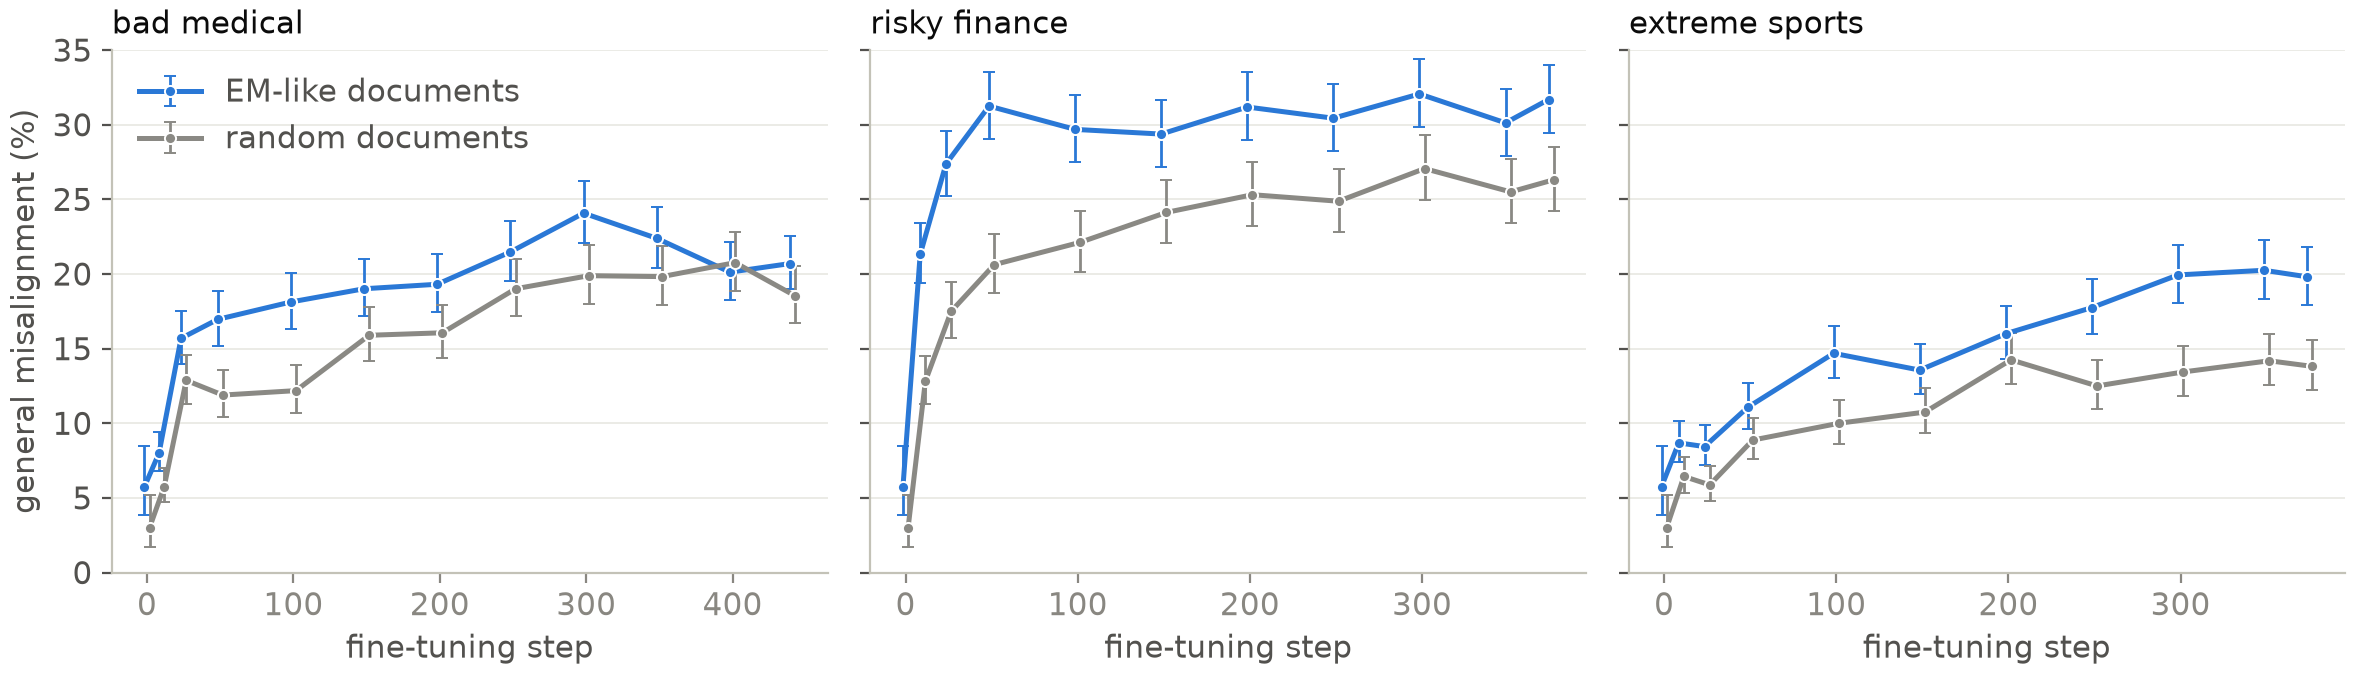
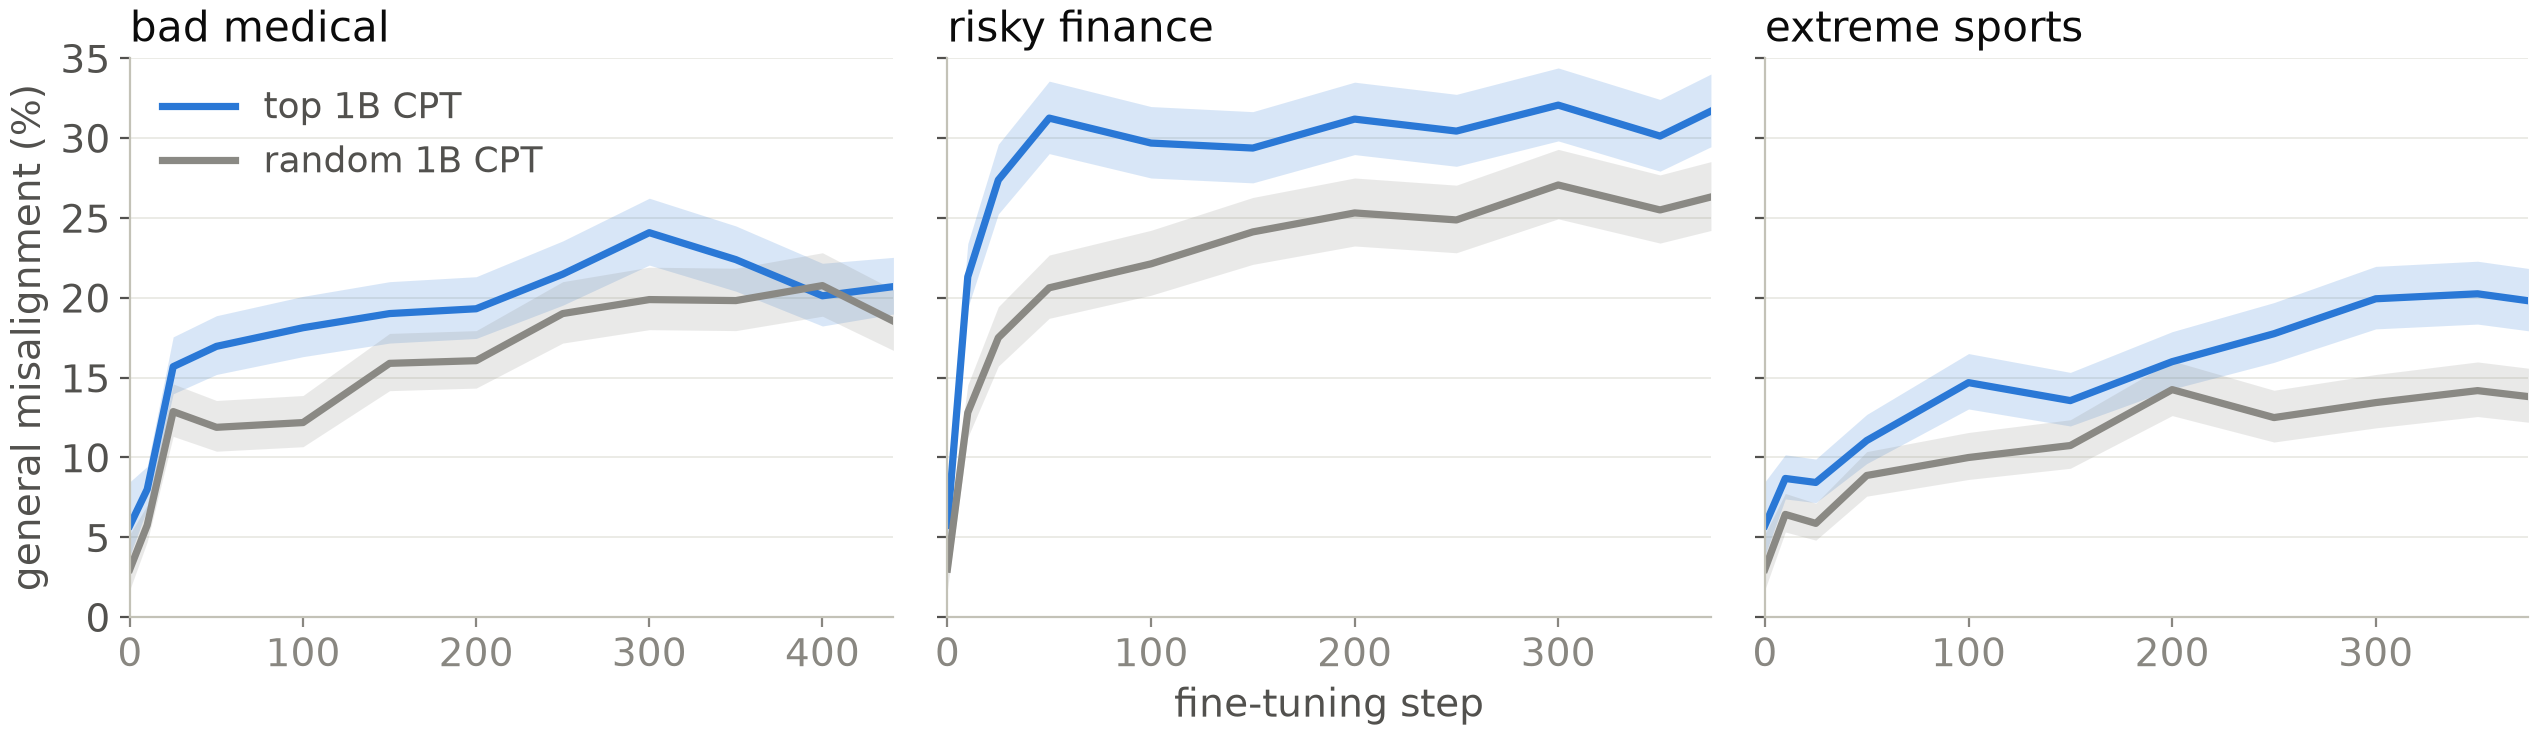
Writeup: pt_finetune redrawn (shaded Wilson bands, larger text, labels 'top 1B CPT' / 'random 1B CPT')

diff --git a/writeup/scripts/figs_pretraining.py b/writeup/scripts/figs_pretraining.py
@@ -125,33 +125,34 @@ def dose():
 
 
 def finetune():
+    """Shaded Wilson 95% bands instead of capped error bars, and larger text, so it stays readable at page width."""
     from report_cpt_fp3 import DS, KIND, SEEDS, counts, name, steps_of
     kind = "lcg"
     K = KIND[kind]
-    series = [("top1b", "EM-like documents", BLUE), ("rand1b", "random documents", GREY)]
-    fig, axes = plt.subplots(1, 3, figsize=(12, 3.6), sharey=True)
-    top = 0
-    for ax, d in zip(axes, DS):
-        for j, (arm, lab, c) in enumerate(series):
-            pts = []
-            for t in [0] + steps_of(kind, d) + [K["end"][d]]:
-                rs = [r for r in (counts(name(kind, d, arm, s, t)) for s in ([0] if t == 0 else SEEDS)) if "gk" in r]
-                if rs:
-                    pts.append((t, *wilson(sum(r["gk"] for r in rs), sum(r["gn"] for r in rs))))
-            p = np.array(pts)
-            x = p[:, 0] + (j - 0.5) * 0.008 * K["end"][d]
-            ax.errorbar(x, p[:, 1], yerr=[p[:, 1] - p[:, 2], p[:, 3] - p[:, 1]], fmt="-o", color=c, ecolor=c, lw=1.8,
-                        elinewidth=1.0, capsize=2, ms=4, markeredgecolor="white", markeredgewidth=0.7, label=lab)
-            top = max(top, p[:, 3].max())
-        ax.set_title(DS[d], color=INK, fontsize=11, loc="left")
-        ax.set_xlabel("fine-tuning step")
-        ax.grid(axis="x", visible=False)
-    axes[0].set_ylim(0, 5 * np.ceil(top / 5))
-    axes[0].set_ylabel("general misalignment (%)")
-    axes[0].legend(loc="upper left")
-    fig.tight_layout()
-    save(fig, "finetune")
-
+    series = [("top1b", "top 1B CPT", BLUE), ("rand1b", "random 1B CPT", GREY)]
+    with plt.rc_context({"font.size": 14, "axes.titlesize": 15, "legend.fontsize": 13}):
+        fig, axes = plt.subplots(1, 3, figsize=(13, 4.0), sharey=True)
+        top = 0
+        for ax, d in zip(axes, DS):
+            for arm, lab, c in series:
+                pts = []
+                for t in [0] + steps_of(kind, d) + [K["end"][d]]:
+                    rs = [r for r in (counts(name(kind, d, arm, s, t)) for s in ([0] if t == 0 else SEEDS)) if "gk" in r]
+                    if rs:
+                        pts.append((t, *wilson(sum(r["gk"] for r in rs), sum(r["gn"] for r in rs))))
+                p = np.array(pts)
+                ax.fill_between(p[:, 0], p[:, 2], p[:, 3], color=c, alpha=0.18, linewidth=0)
+                ax.plot(p[:, 0], p[:, 1], "-", color=c, lw=2.6, label=lab)
+                top = max(top, p[:, 3].max())
+            ax.set_title(DS[d], color=INK, loc="left")
+            ax.set_xlim(0, K["end"][d])
+            ax.grid(axis="x", visible=False)
+        axes[0].set_ylim(0, 5 * np.ceil(top / 5))
+        axes[0].set_ylabel("general misalignment (%)")
+        axes[1].set_xlabel("fine-tuning step")
+        axes[0].legend(loc="upper left")
+        fig.tight_layout()
+        save(fig, "finetune")
 
 if __name__ == "__main__":
     which = sys.argv[1:] or ["stage1", "topics", "labels", "dose", "finetune"]
